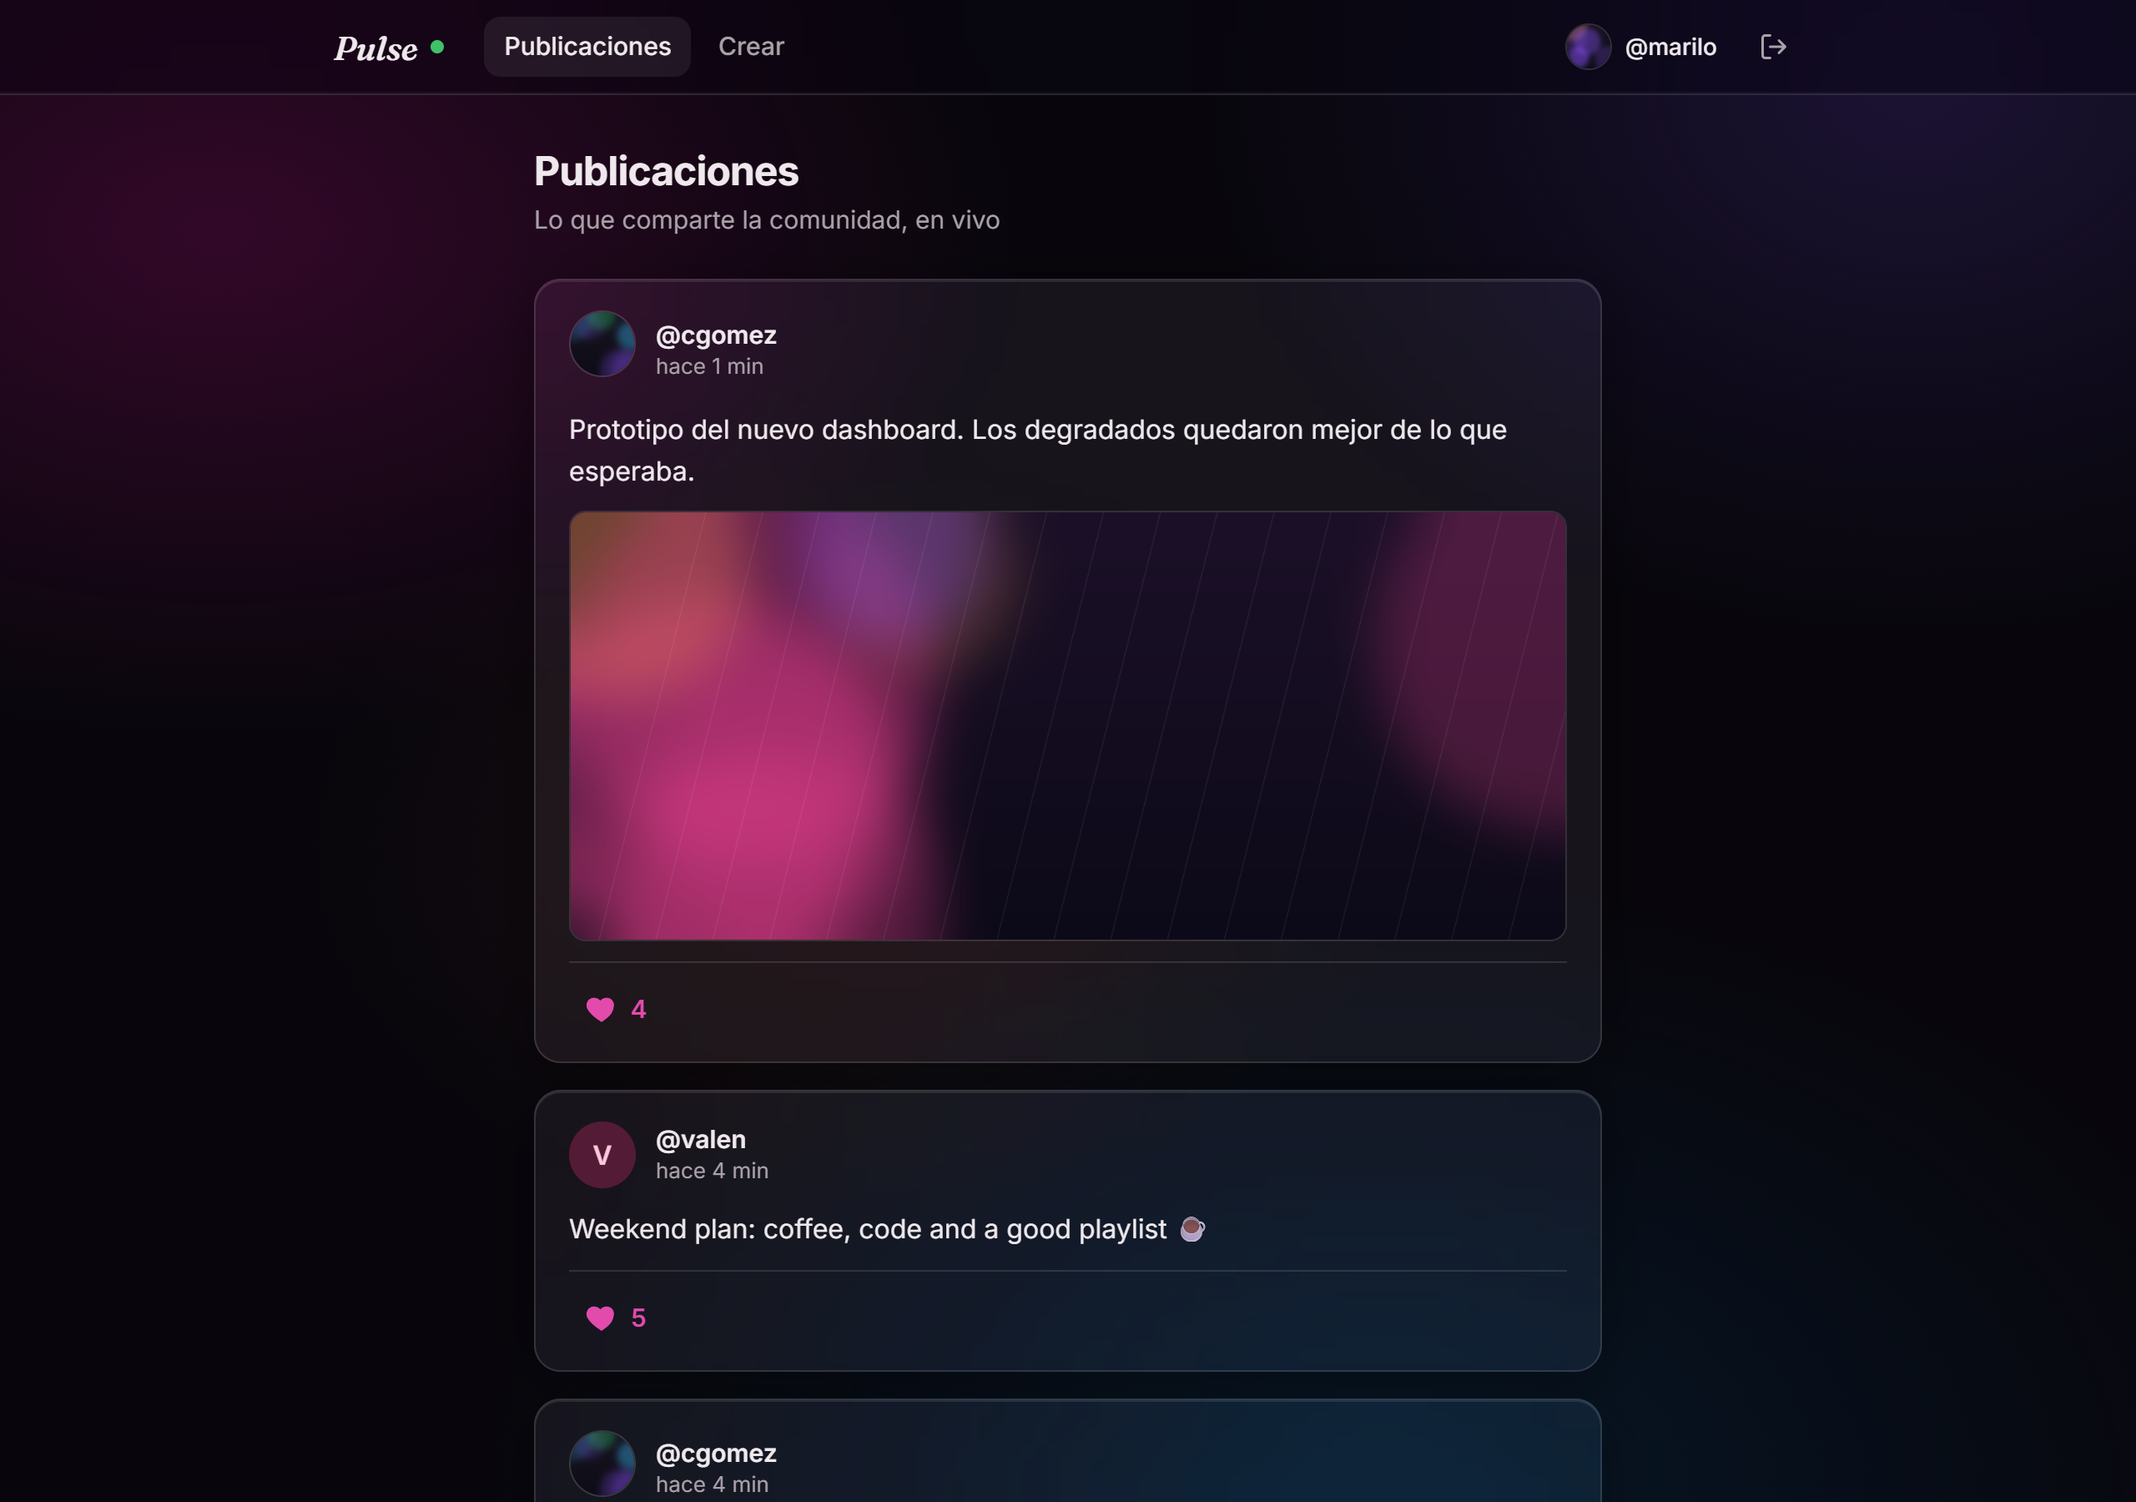
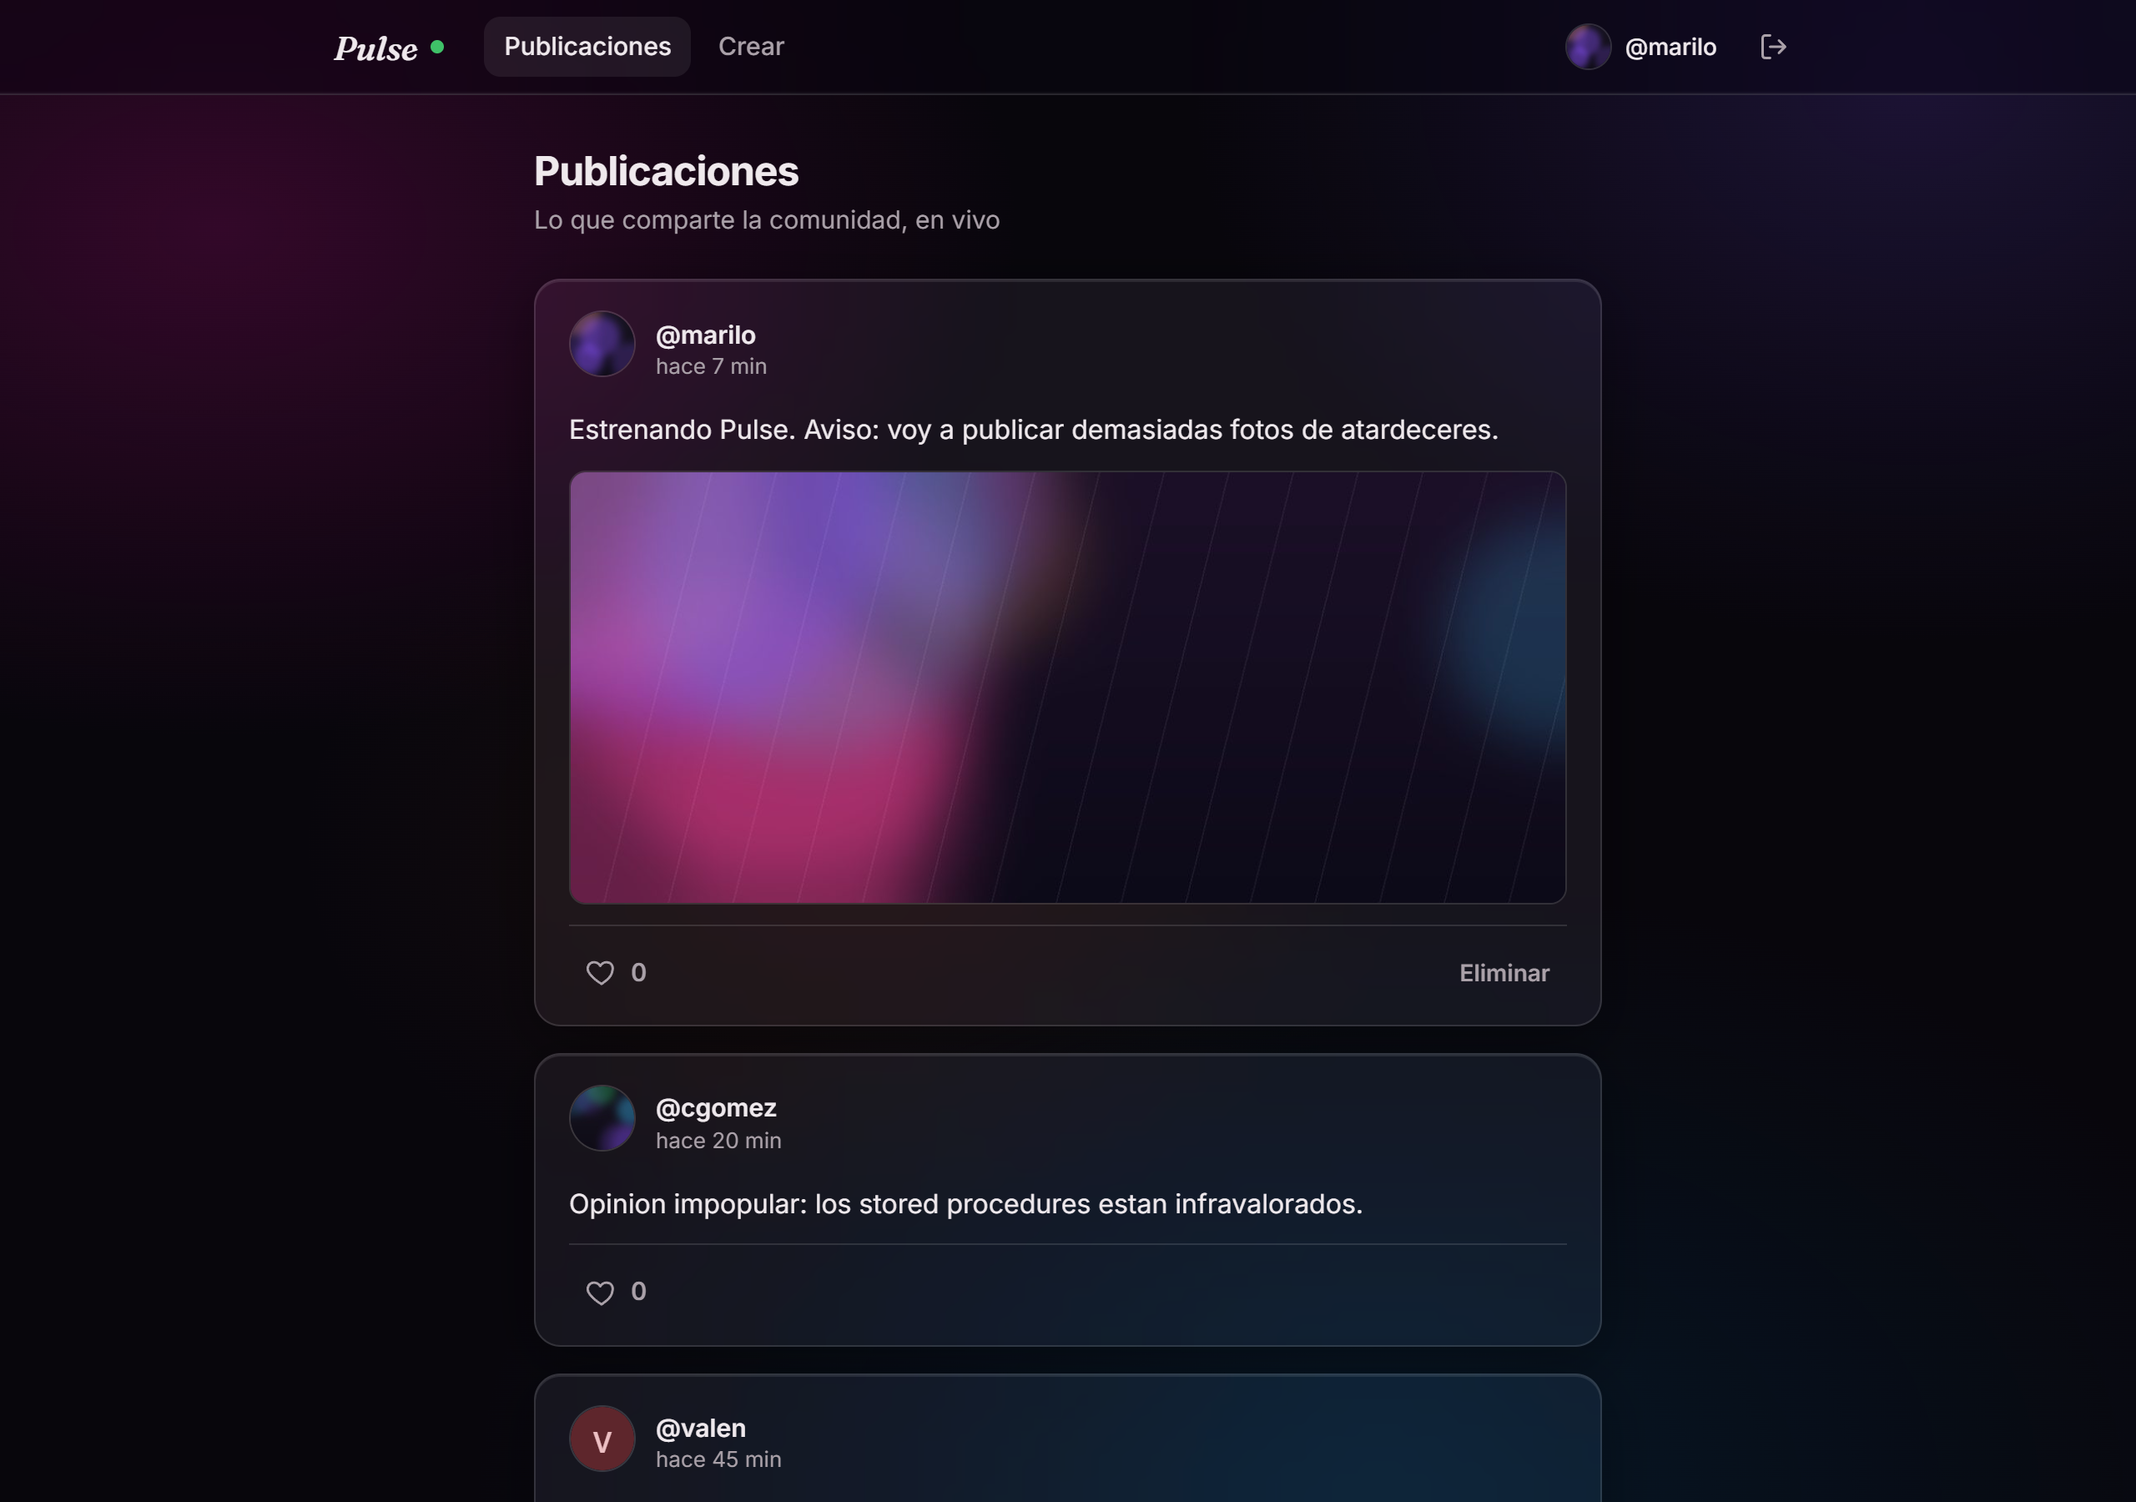
docs: document pagination, live deletions and the hardening pass
READMEs cover the cursor API, the third WebSocket topic, the alias rules, generated avatars and the security headers; screenshots and the real-time capture are retaken against the richer seeded feed.

diff --git a/README.md b/README.md
@@ -42,13 +42,16 @@ SignalStore updates every open feed:
 - **Microservice boundaries that hold up.** Two services, two database schemas, zero
   runtime calls between them — identity travels inside a self-contained JWT.
 - **PostgreSQL beyond CRUD.** Real PL/pgSQL `PROCEDURE`s invoked with `CALL` from
-  JDBC, a set-returning `FUNCTION` for the feed, and idempotency enforced at the
-  database level.
-- **Real-time UX.** STOMP over WebSocket driving an NgRx SignalStore, with optimistic
-  updates reconciled against the server's authoritative count.
-- **Tests that prove the hard parts.** 74 tests, including integration tests that run
-  the stored procedures against a real PostgreSQL (Testcontainers) and a real STOMP
-  client that waits for the broadcast frame.
+  JDBC, a set-returning `FUNCTION` for the feed, keyset pagination on an index built
+  for it, and idempotency enforced at the database level.
+- **Real-time UX.** STOMP over WebSocket driving an NgRx SignalStore: likes, new posts
+  and deletions all land without a reload, with optimistic updates reconciled against
+  the server's authoritative count.
+- **Tests that prove the hard parts.** 95 tests, including integration tests that run
+  the stored procedures against a real PostgreSQL (Testcontainers) and real STOMP
+  clients that wait for the broadcast frames.
+- **Production hygiene.** Secrets with no committed fallback, a Content-Security-Policy
+  and the usual hardening headers, Prometheus metrics, grouped Dependabot updates.
 - **Reproducible delivery.** Multi-stage Docker images, health-gated Compose startup,
   Flyway-owned schema, CI on every push.
 
@@ -109,8 +112,10 @@ Stop everything with `docker compose down` (add `-v` to wipe the database).
 
 ### Demo users
 
-On startup, `auth-service` seeds five BCrypt users and `posts-service` one post each.
-The same data ships as a standalone script in [`db/seed.sql`](db/seed.sql).
+On startup the services seed a feed worth looking at: five BCrypt users (two with a
+profile picture), two dozen posts spread over the last few days, one of them
+illustrated, and fifty likes between them. The same data ships as a standalone script
+in [`db/seed.sql`](db/seed.sql).
 
 | Username | Password | Alias |
 |---|---|---|
@@ -143,6 +148,19 @@ One subtlety worth knowing: the PostgreSQL JDBC driver translates the `{call ...
 escape into `SELECT` by default, which fails against a procedure. The datasource URL
 carries `escapeSyntaxCallMode=callIfNoReturn` so the driver emits `CALL` instead.
 Integration tests execute the procedures for real, so this stays honest.
+
+### Keyset pagination instead of OFFSET
+
+`OFFSET` pagination degrades linearly — the database still walks and discards every
+skipped row — and it is unstable: posts published while someone reads shift the window,
+so items get duplicated or skipped between pages. The feed pages by cursor instead: the
+client sends back the `(published_at, id)` of the last post it received, and the query
+seeks straight to that position with a row-value comparison against an index built on
+the same sort key.
+
+The cursor travels as one opaque Base64 token rather than two query parameters, so
+clients just echo what the previous page returned and the sort key can change later
+without breaking the contract.
 
 ### Like idempotency, enforced twice
 
@@ -181,9 +199,23 @@ and the feed stay behind the JWT.
 ### Broadcast-only WebSocket
 
 The `/ws` handshake is open because the channel only *broadcasts* information any
-authenticated user already sees in the feed: like totals and new posts. Every mutation
-goes through REST with a JWT. Securing the handshake (token in the CONNECT frame)
-would be the hardening step if the channel ever carried private data.
+authenticated user already sees in the feed: like totals, new posts and deletions.
+Every mutation goes through REST with a JWT. Securing the handshake (token in the
+CONNECT frame) would be the hardening step if the channel ever carried private data.
+
+### No secret with a fallback
+
+Neither service defines a default `JWT_SECRET`: the application fails to start without
+one, so a deployment can never silently run on a value that is readable in this
+repository. The Compose file supplies a clearly-labelled local value so
+`docker compose up` still works for a demo out of the box.
+
+### An avatar for everyone
+
+`GET /users/{id}/avatar` never 404s for an existing user: when there is no uploaded
+picture it returns a generated SVG disc with the user's initial, coloured from a hash
+of their alias. Clients need no fallback branch, every `<img>` in the feed resolves,
+and the browser console stays clean.
 
 ### Separable monorepo
 
@@ -208,11 +240,13 @@ TOKEN=$(curl -s -X POST http://localhost:8081/auth/login -H "Content-Type: appli
 curl -s http://localhost:8081/users/me -H "Authorization: Bearer $TOKEN"
 curl -s http://localhost:8081/users/00000000-0000-0000-0000-000000000002 -H "Authorization: Bearer $TOKEN"
 
-# Edit alias (re-issues the JWT); username and real names are immutable
+# Edit alias (re-issues the JWT); username and real names are immutable.
+# Aliases are unique, case insensitively: a clash answers 409.
 curl -s -X PUT http://localhost:8081/users/me -H "Authorization: Bearer $TOKEN" \
   -H "Content-Type: application/json" -d '{"alias":"mariana_live"}'
 
-# Upload an avatar (JPEG/PNG/WebP, max 2MB) and read it back (public, for img tags)
+# Upload an avatar (JPEG/PNG/WebP, max 2MB) and read it back. The read is public
+# (for img tags) and returns a generated SVG disc when there is no upload.
 curl -s -X PUT http://localhost:8081/users/me/avatar -H "Authorization: Bearer $TOKEN" \
   -F "image=@photo.png;type=image/png"
 curl -s http://localhost:8081/users/00000000-0000-0000-0000-000000000001/avatar -o avatar.png
@@ -225,8 +259,12 @@ in a URL leak into access logs, proxies and browser history.
 ### posts-service (`:8082`)
 
 ```bash
-# Feed, with like totals and whether the current user liked each post
-curl -s http://localhost:8082/posts -H "Authorization: Bearer $TOKEN"
+# Feed: one page of posts with like totals and whether the current user liked each.
+# Response: { "items": [...], "nextCursor": "…" | null }
+curl -s "http://localhost:8082/posts?limit=10" -H "Authorization: Bearer $TOKEN"
+
+# Next page: echo back the nextCursor from the previous response
+curl -s "http://localhost:8082/posts?limit=10&cursor=<nextCursor>" -H "Authorization: Bearer $TOKEN"
 
 # Create a post — publication date is assigned server-side on save
 curl -s -X POST http://localhost:8082/posts \
@@ -242,8 +280,11 @@ curl -s http://localhost:8082/posts/{postId}/image -o post.png
 curl -s -X POST   http://localhost:8082/posts/{postId}/likes -H "Authorization: Bearer $TOKEN"
 curl -s -X DELETE http://localhost:8082/posts/{postId}/likes -H "Authorization: Bearer $TOKEN"
 
-# Delete your own post (someone else's returns 403)
+# Delete your own post (someone else's returns 403); broadcast to every open feed
 curl -s -X DELETE http://localhost:8082/posts/{postId} -H "Authorization: Bearer $TOKEN"
+
+# After renaming yourself in auth-service, realign the alias denormalized on your posts
+curl -s -X POST http://localhost:8082/posts/author-alias -H "Authorization: Bearer $TOKEN"
 ```
 
 Both services return consistent errors through `@RestControllerAdvice`:
@@ -260,10 +301,11 @@ STOMP endpoint: `ws://localhost:8082/ws` (or `ws://localhost:4200/ws` through ng
 |---|---|---|
 | `/topic/likes` | `{ "postId": "…", "likeCount": 3 }` | Any like or unlike |
 | `/topic/posts` | the full `PostResponse` | A post is created |
+| `/topic/posts-deleted` | `{ "postId": "…" }` | A post is deleted |
 
 ## Tests
 
-74 tests in total: 20 backend unit tests, 32 backend integration tests and 22 frontend
+95 tests in total: 31 backend unit tests, 38 backend integration tests and 26 frontend
 specs.
 
 ```bash
@@ -277,8 +319,10 @@ npm run test:ci
 
 Integration tests cover the parts that would be dishonest to mock: Flyway migrations,
 the stored procedures executing for real (a like sent twice leaves exactly one row),
-like counts accumulating across different users, the full image lifecycle, author-only
-deletion, and STOMP clients that connect and wait for the actual broadcast frames.
+like counts accumulating across different users, cursor pagination walked page by page
+until the pages provably cover the whole feed without overlap, unique aliases under a
+case-insensitive index, the full image lifecycle, author-only deletion, and STOMP
+clients that connect and wait for the actual broadcast frames.
 
 Unit tests use Mockito against in-memory doubles; H2 was deliberately not used, since
 it cannot execute PL/pgSQL and a test that skips the procedures would prove nothing.
@@ -296,10 +340,11 @@ it cannot execute PL/pgSQL and a test that skips the procedures would prove noth
 
 ## Possible next steps
 
-Known trade-offs I would revisit before calling this production-ready: keyset
-pagination for the feed, broadcasting deletions over WebSocket so open feeds drop the
-card without a reload, a `UNIQUE` constraint on aliases, refresh tokens with a shorter
-access-token lifetime, rate limiting on login, and object storage for images.
+Known trade-offs I would revisit before calling this production-ready: refresh tokens
+with a shorter access-token lifetime, rate limiting on login, object storage for images
+once they outgrow a single database, validating uploaded images by their magic bytes
+and re-encoding them server-side (which also strips EXIF), and an external STOMP broker
+so broadcasts still reach everyone once the service runs as more than one instance.
 
 ## License
 

diff --git a/backend/README.md b/backend/README.md
@@ -14,24 +14,31 @@ through configuration.
 - **PL/pgSQL stored procedures.** `sp_register_like` and `sp_remove_like` are real
   `PROCEDURE`s invoked with `CALL` from Java (`CallableStatement`, datasource with
   `escapeSyntaxCallMode=callIfNoReturn` so the driver emits `CALL` instead of
-  `SELECT`); `sp_get_posts_with_likes` is a `FUNCTION RETURNS TABLE` that builds the
-  feed with like counts and `liked_by_me` in one round trip. See
+  `SELECT`); `sp_get_posts_with_likes` is a `FUNCTION RETURNS TABLE` that builds one
+  page of the feed with like counts and `liked_by_me` in a single round trip. See
   `posts-service/src/main/resources/db/migration/`.
+- **Keyset pagination.** The feed seeks by `(published_at, id)` against a matching
+  index instead of using `OFFSET`, so page ten costs the same as page one and
+  concurrent inserts never duplicate or skip a post. The cursor is an opaque token.
 - **Idempotent likes.** Composite primary key `(post_id, user_id)` plus
   `ON CONFLICT DO NOTHING` inside the procedure: liking twice leaves one row and
   returns the correct total.
 - **Real time.** Every like/unlike broadcasts `{postId, likeCount}` to `/topic/likes`,
-  and every new post broadcasts the full payload to `/topic/posts` (STOMP over `/ws`).
+  new posts go to `/topic/posts` and deletions to `/topic/posts-deleted` (STOMP over
+  `/ws`), so open feeds grow, shrink and update on their own.
 - **No inter-service calls.** The JWT carries `sub`, `username` and `alias`; posts
-  store the author alias denormalized, and an alias change re-issues the token and
-  lazily syncs existing posts on the next feed load.
+  store the author alias denormalized. Renaming re-issues the token, and the client
+  then calls `POST /posts/author-alias` so the write that realigns old posts happens
+  on a write path rather than on every feed read.
+- **Secrets without fallbacks.** `JWT_SECRET` has no default: the services refuse to
+  start without it, so no deployment can inherit a value committed to the repository.
 - **Schema owned by Flyway.** `ddl-auto: validate` — Hibernate only checks that the
   entities match; migrations are versioned in the repository, one history per service.
 - **Production hygiene.** Record DTOs (entities are never exposed), Bean Validation,
   a `@RestControllerAdvice` returning a consistent
   `{timestamp, status, error, message, path}` body, SLF4J audit logs for login, post
-  creation, likes and deletions, Actuator (`/actuator/health`, `/actuator/metrics`)
-  and Swagger UI at **`/docs`** on each service.
+  creation, likes and deletions, Actuator (`/actuator/health`, `/actuator/metrics`,
+  `/actuator/prometheus`) and Swagger UI at **`/docs`** on each service.
 
 ## Running the tests
 

diff --git a/frontend/README.md b/frontend/README.md
@@ -15,13 +15,19 @@ that visibly moves is what just happened.
   - `PostsStore` — feed, optimistic likes, and incoming WebSocket events.
   - Components read **signals only** (`store.posts()`, `auth.user()`, …), never raw
     observables, so a single broadcast updates every view at once.
-- **@stomp/rx-stomp** — subscribes to `/topic/likes` and `/topic/posts`; each frame is
-  fed into `PostsStore`, which makes counters pulse and new posts slide in without a
-  reload. Reconnects on its own (`reconnectDelay: 3000`).
+- **@stomp/rx-stomp** — subscribes to `/topic/likes`, `/topic/posts` and
+  `/topic/posts-deleted`; each frame is fed into `PostsStore`, which makes counters
+  pulse, new posts slide in and deleted ones disappear without a reload. Reconnects on
+  its own (`reconnectDelay: 3000`).
+- **Cursor pagination with infinite scroll** — an `IntersectionObserver` on a sentinel
+  at the end of the list asks for the next page before the user reaches the bottom, and
+  a plain "load more" button below it keeps the feature reachable by keyboard.
 - Functional HTTP interceptor that attaches the JWT and signs out globally on `401`,
   plus route guards (`authGuard` / `anonymousGuard`).
-- nginx in production: serves the SPA and proxies `/auth`, `/users`, `/posts` and `/ws`
-  so the browser talks to a single origin.
+- nginx in production: serves the SPA, proxies `/auth`, `/users`, `/posts` and `/ws` so
+  the browser talks to a single origin, and adds the security headers (a
+  Content-Security-Policy that needs no `unsafe-inline` for scripts, `X-Frame-Options`,
+  `Referrer-Policy`, `Permissions-Policy`).
 
 ## Structure
 
@@ -55,9 +61,9 @@ Open http://localhost:4200. The dev proxy avoids CORS in development too.
 npm run test:ci
 ```
 
-22 Karma/Jasmine specs: stores (feed loading, optimistic likes with rollback on
-failure, WebSocket event sequencing, local removal after delete), route guards, the
-relative-time pipe and avatar utilities.
+26 Karma/Jasmine specs: stores (paging through the feed by cursor without duplicates,
+optimistic likes with rollback on failure, WebSocket event sequencing, removal after a
+delete arrives), route guards, the relative-time pipe and avatar utilities.
 
 Needs a Chromium browser. If Chrome is not on the default path, point `CHROME_BIN` at
 your binary (Edge and Brave work).
